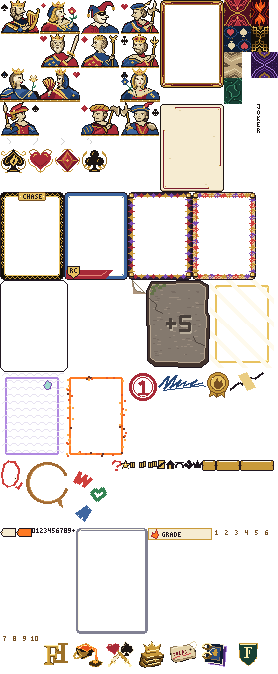
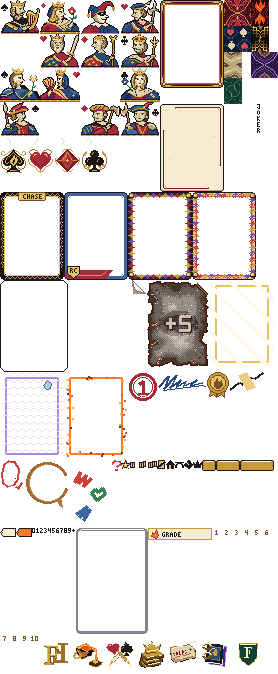
ash: bulk is now ash, the burnt card a flambé leaves. the ashtray empties it, the ash bucket and le ferrailleur pay for it, new burnt card art. ids stay bulk

Changed region(s): [[0.518, 0.405, 0.777, 0.5608]]

diff --git a/src/engine/glossary.ts b/src/engine/glossary.ts
@@ -67,7 +67,7 @@ export const KEYWORDS: Record<string, string> = {
   Trait: 'What a ★ card does, from the hand it was flambéed out of. A card holds as many as its ★',
   '★': 'Flambé tier, ★1 to ★3. Each ★ holds one Trait',
   Flamber: 'Throw a hand: a Pair or better merges its cards into one ★ card, otherwise one card gets +1 Value',
-  Bulk: `A stone card a flambé leaves behind: +${BULK_VALUE} Value when played, never part of a hand`,
+  Ash: `The burnt card a flambé leaves behind: +${BULK_VALUE} Value when played, never part of a hand`,
   'Bonus hand': 'A second hand type stacked on top, only when a ★ trait made it happen',
   Joker: `A real playing card with a rule on top. Max ${MAX_JOKERS} in a deck`,
   'K.O.': 'Win a hand by K× or more and the round ends right there',
@@ -173,11 +173,11 @@ function gradeLine(grade: number): string {
 const FRENCH_RANK: Record<number, string> = { 11: 'Valet', 12: 'Dame', 13: 'Roi', 14: 'As' }
 
 const BULK: Entry = {
-  name: 'Bulk', kind: 'bulk',
+  name: 'Ash', kind: 'bulk',
   text: [
     `${v(`+${BULK_VALUE} Value`)} when played, but never part of a poker hand`,
     'Every card a flambé eats beyond the first leaves one',
-    `No rank or suit. Can't be flambéed or sold. The Bulk bin takes it for $${BULK_BIN_PRICE}+`,
+    `No rank or suit. Can't be flambéed or sold. The Ashtray takes it for $${BULK_BIN_PRICE}+`,
   ],
 }
 
@@ -387,7 +387,7 @@ const HUD: Record<string, HudDef> = {
   // the shop
   restock: { name: 'Restock', text: () => ['Rerolls the packs, collectibles and scratchers. $1, $2, $3… each shop. Never the pochette'] },
   scratcher: { name: 'Scratcher', text: () => [`$${SCRATCHER_PRICE}: scratch it for a random [Insert]. It goes in the [Sleeve]`] },
-  'bulk-bin': { name: 'Bulk bin', text: () => [`Throw away one [Bulk] card: $${BULK_BIN_PRICE}, then $${BULK_BIN_PRICE + 1}, $${BULK_BIN_PRICE + 2}… for the run`] },
+  'bulk-bin': { name: 'Ashtray', text: () => [`Empty one [Ash] card from your deck: $${BULK_BIN_PRICE}, then $${BULK_BIN_PRICE + 1}, $${BULK_BIN_PRICE + 2}… for the run`] },
   grading: { name: 'Grading desk', text: () => ['Ship one card: it comes back graded 1–10 at the next shop', 'Grade = 1d10 + [Freshness], max 10'] },
   'pack-offbrand': { name: PACKS.offbrand.name, tag: `$${PACK_PRICE.offbrand}`, text: () => [PACKS.offbrand.text] },
   'pack-repack': { name: PACKS.repack.name, tag: `$${PACK_PRICE.repack}`, text: () => [PACKS.repack.text] },

diff --git a/src/engine/collectibles.ts b/src/engine/collectibles.ts
@@ -99,7 +99,7 @@ export const COLLECTIBLES: readonly CollectibleDef[] = [
   { id: 'thin_binder', name: 'Thin Binder', rarity: 'rare', text: '+1 Grade if your deck has 18 or fewer cards', onHand: c => (c.deckSize <= 18 ? { grade: 1 } : null) },
   { id: 'high_roller', name: 'High Roller', rarity: 'rare', text: '+1 Grade and +10 Hype while bankroll is under 3× the ante', onHand: c => (c.bankroll < 3 * c.ante ? { grade: 1, hype: 10 } : null) },
   // bulk feeder
-  { id: 'bulk_bin', name: 'Bulk Bin', rarity: 'common', text: 'Each Bulk played: +2 Hype', onHand: c => (c.bulk > 0 ? { hype: 2 * c.bulk } : null) },
+  { id: 'bulk_bin', name: 'Ash Bucket', rarity: 'common', text: 'Each Ash played: +2 Hype', onHand: c => (c.bulk > 0 ? { hype: 2 * c.bulk } : null) },
   // the lane payoffs: rare, and they multiply
   { id: 'les_jumeaux', name: 'Les Jumeaux', rarity: 'rare', payoff: true, text: 'Each Pair in the hand: ×1.5 Hype', onHand: c => times(1.5, pairsIn(c)) },
   {
@@ -109,7 +109,7 @@ export const COLLECTIBLES: readonly CollectibleDef[] = [
   { id: 'flamme_bleue', name: 'Flamme Bleue', rarity: 'rare', payoff: true, text: 'Each scored flambéed card: ×1.5 Hype', onCard: c => (isForged(c) ? { xhype: 1.5 } : null) },
   { id: 'vitrine', name: "L'Écrin", rarity: 'rare', payoff: true, text: '×1 Hype per different Finish scored', onHand: c => (new Set(c.worn).size > 1 ? { xhype: new Set(c.worn).size } : null) },
   { id: 'petite_monnaie', name: 'Petite Monnaie', rarity: 'rare', payoff: true, text: 'Each scored 2–6: ×1.25 Hype', onCard: c => (!isCrayon(c) && c.rank <= 6 ? { xhype: 1.25 } : null) },
-  { id: 'ferrailleur', name: 'Le Ferrailleur', rarity: 'rare', payoff: true, text: 'Each Bulk played: ×1.5 Hype', onHand: c => times(1.5, c.bulk) },
+  { id: 'ferrailleur', name: 'Le Ferrailleur', rarity: 'rare', payoff: true, text: 'Each Ash played: ×1.5 Hype', onHand: c => times(1.5, c.bulk) },
   { id: 'le_flambeur', name: 'Le Flambeur', rarity: 'rare', payoff: true, text: '×Hype: 1, +1 per $20 you hold', onHand: c => (c.bankroll >= 20 ? { xhype: 1 + Math.floor(c.bankroll / 20) } : null) },
   { id: 'bis', name: 'Bis !', rarity: 'rare', payoff: true, text: 'Signed cards score 3 times, not 2' }, // scoring.ts reads it
   {

diff --git a/src/ui/fiche.ts b/src/ui/fiche.ts
@@ -40,7 +40,7 @@ const LINE_INK: [string, string][] = ([
   ['Chase', modifierInk('chase')], ['Sticker', modifierInk('sticker')], ['Rookie', modifierInk('rookie')], ['Jumbo', modifierInk('jumbo')],
   ['Crayon Joker', specialInk.crayon], ['Joker', specialInk.joker], ['Sticky Fingers', specialInk.joker], ['Double or Nothing', specialInk.joker],
   ['Courtier', specialInk.joker], ['Catalyst', specialInk.joker], ['Poker Face', specialInk.joker], ["Rival's Card", specialInk.joker],
-  ['Bulk', modifierInk('bulk')], ['Gold foil', modifierInk('foil')], ['Foil', modifierInk('foil')], ['Holographic', modifierInk('holo')],
+  ['Ash', modifierInk('bulk')], ['Gold foil', modifierInk('foil')], ['Foil', modifierInk('foil')], ['Holographic', modifierInk('holo')],
   ['Holo', modifierInk('holo')], ['Embers', modifierInk('prism')], ['Prism', modifierInk('prism')], ['Misprint', modifierInk('misprint')],
   ['1st Edition', modifierInk('first')], ['Signed', modifierInk('signed')], ['Gold Border', modifierInk('gold')], ['Damaged', modifierInk('damaged')],
   ['Crayon', modifierInk('crayon')], ['Marked', modifierInk('marked')], ['Wrong Suit', modifierInk('wrongsuit')], ['Beer-stained', modifierInk('beer')],

diff --git a/src/engine/glossary.test.ts b/src/engine/glossary.test.ts
@@ -61,14 +61,14 @@ test('ctx fills the rolled bits: playmat ♥, ban wave clubs, wrong suit ♦', (
   assert.equal(entry('knockoff', 'wrongsuit', { kind: 'wrongsuit', suit: 'D' }).text[0], 'Also counts as ♦ for a Flush')
 })
 
-test('compare: a 5th ♥ in a ♥-heavy deck, a 2nd Q and a 3rd Bulk', () => {
+test('compare: a 5th ♥ in a ♥-heavy deck, a 2nd Q and a 3rd Ash', () => {
   const deck = [c(2, 'H'), c(5, 'H'), c(9, 'H'), c(13, 'H'), c(12, 'S'), c(3, 'C'), c(2, 'S', { bulk: true }), c(2, 'S', { bulk: true })]
   const d = deckDelta(deck, [c(12, 'H'), c(2, 'S', { bulk: true })])
   assert.deepEqual(d.suit.H, [4, 5])
   assert.deepEqual(d.suit.S, [1, 1]) // bulk has no suit
   assert.deepEqual(d.rank[12], [1, 2])
   assert.deepEqual(d.rank[2], [1, 1])
-  assert.deepEqual(d.lines, ['5th ♥: flush lane', 'makes a Q pair possible', '3rd Bulk'])
+  assert.deepEqual(d.lines, ['5th ♥: flush lane', 'makes a Q pair possible', '3rd Ash'])
 })
 
 test('compare: a 3rd Joker is over the cap of 2, a crayon has no rank to count', () => {

diff --git a/src/engine/shop.ts b/src/engine/shop.ts
@@ -199,7 +199,7 @@ export const INSERTS: Record<Insert, { name: string; text: string; when: InsertW
   holo: { name: 'Holo wrap', text: '1 card becomes Holo', when: 'hand', cards: [1, 1], odds: 7 },
   prism: { name: 'Prism wrap', text: '1 card becomes Prism', when: 'hand', cards: [1, 1], odds: 2 },
   tampon: { name: 'Tampon', text: '1 card gets a random stamp: 1st Edition, Signed or Gold Border', when: 'hand', cards: [1, 1], odds: 6 },
-  allumettes: { name: 'Allumettes', text: 'Merge 2 same-rank cards in your hand into a ★ card now. Leaves 1 Bulk', when: 'hand', cards: [2, 2], odds: 6 },
+  allumettes: { name: 'Allumettes', text: 'Merge 2 same-rank cards in your hand into a ★ card now. Leaves 1 Ash', when: 'hand', cards: [2, 2], odds: 6 },
   wishlist: { name: 'Wishlist', text: '1 binder card shuffles into your deck', when: 'shop', cards: [1, 1], odds: 5 },
   grail: { name: 'Grail', text: 'A free rare collectible or a Joker', when: 'spot', cards: [0, 0], odds: 3 },
 }

diff --git a/src/engine/cards.ts b/src/engine/cards.ts
@@ -64,7 +64,7 @@ export type Card = {
   bonusHype: number // grows on 1st Edition cards
   grade: number | null // 1..10 once graded
   pulledRound: number // 0 = starting deck
-  bulk: boolean // stone card a forge leaves behind: no rank or suit, always +5 value when played
+  bulk: boolean // ash: the burnt card a flambé leaves behind: no rank or suit, always +5 value when played
 }
 
 export const MAX_TIER = 3
@@ -182,7 +182,7 @@ export function traitLabel(card: Card, t: Trait): string {
 }
 
 export function cardName(card: Card): string {
-  if (card.bulk) return 'Bulk'
+  if (card.bulk) return 'Ash'
   const suit = isWild(card) ? '★' : SUIT_GLYPH[card.suit]
   const stars = card.tier > 0 ? ` ${'★'.repeat(card.tier)}` : ''
   return `${rankLabel(card.rank)}${suit}${stars}`

diff --git a/src/engine/sleeves.ts b/src/engine/sleeves.ts
@@ -12,7 +12,7 @@ export const SLEEVES: readonly { id: SleeveId; name: string; text: string }[] = 
   { id: 'hot_market', name: 'Hot Market', text: 'STONKS sells at +1×' },
   { id: 'riser', name: 'Display Riser', text: '+1 display case slot' },
   { id: 'deep_pockets', name: 'Deep Pockets', text: 'Interest caps at +$4 instead of +$2' },
-  { id: 'bulk_deal', name: 'Bulk Deal', text: 'Binning a Bulk card always costs $1' },
+  { id: 'bulk_deal', name: 'Ash Deal', text: 'Emptying an Ash card always costs $1' },
   { id: 'archival', name: 'Pochette Archive', text: 'Damaged cards never tear, and grading never comes back damaged' },
 ]
 

diff --git a/src/ui/font.ts b/src/ui/font.ts
@@ -188,7 +188,7 @@ export function wrapText(s: string, width: number, font: FontName, bold = false)
 
 // ---------- rich text: the rules markup (docs/UX.md §6) ----------
 // {v}+30 Value{/} cream on a value-blue chip, {h} hype, {x}×1.5 Hype{/} cream on a flame chip, {g} grade, {$} money, {-} a loss,
-// [Bulk] a keyword (brass underline), a newline breaks. a token never wraps apart
+// [Ash] a keyword (brass underline), a newline breaks. a token never wraps apart
 
 type Mark = 'v' | 'h' | 'x' | 'g' | '$' | '-'
 type Part = { s: string; mark: Mark | null; keyword: boolean }

diff --git a/src/engine/round.test.ts b/src/engine/round.test.ts
@@ -147,7 +147,7 @@ test('a thrown hand loses the hand but can\'t be knocked out, and reveals nothin
   assert.deepEqual(sd.theirCards, [])
 })
 
-test('flamber a pair: a K★ Twin comes straight back into your hand for hand 2, 1 Bulk to the discard, deck size the same', () => {
+test('flamber a pair: a K★ Twin comes straight back into your hand for hand 2, 1 Ash to the discard, deck size the same', () => {
   let m = start('bforge')
   const a = setHand(m, 0, KK)
   const before = deckSize(m.players[0])

diff --git a/src/engine/rivals.ts b/src/engine/rivals.ts
@@ -107,7 +107,7 @@ export const RIVALS: readonly RivalDef[] = [
     hands: ['pair', 'twopair'],
   },
   {
-    id: 'scaramouche', name: 'Scaramouche', lane: 'Junk', leans: 'Bulk and knockoffs',
+    id: 'scaramouche', name: 'Scaramouche', lane: 'Junk', leans: 'Ash and knockoffs',
     deck: (rng, ids) => fill(rng, ids, [
       newBulk(ids, 0), newBulk(ids, 0), newBulk(ids, 0),
       anyCard(rng, ids, { knockoff: { kind: 'crayon' } }),

diff --git a/src/engine/scoring.ts b/src/engine/scoring.ts
@@ -130,7 +130,7 @@ export function appraise(played: Card[], ctx: ScoreCtx): Appraisal {
 
   // bulk is the one card that scores without being in the hand
   const bulk = played.filter(c => c.bulk)
-  for (const card of bulk) add('Bulk', card.id, null, { value: BULK_VALUE })
+  for (const card of bulk) add('Ash', card.id, null, { value: BULK_VALUE })
 
   const handCtx: HandCtx = {
     hand,

diff --git a/src/engine/compare.ts b/src/engine/compare.ts
@@ -40,7 +40,7 @@ export function deckDelta(deck: Card[], add: Card[]): DeckDelta {
   for (const c of add) {
     count(c)
     if (c.bulk) {
-      say(`${ordinal(bulk)} Bulk`)
+      say(`${ordinal(bulk)} Ash`)
       continue
     }
     const n = suits.get(c.suit)!
